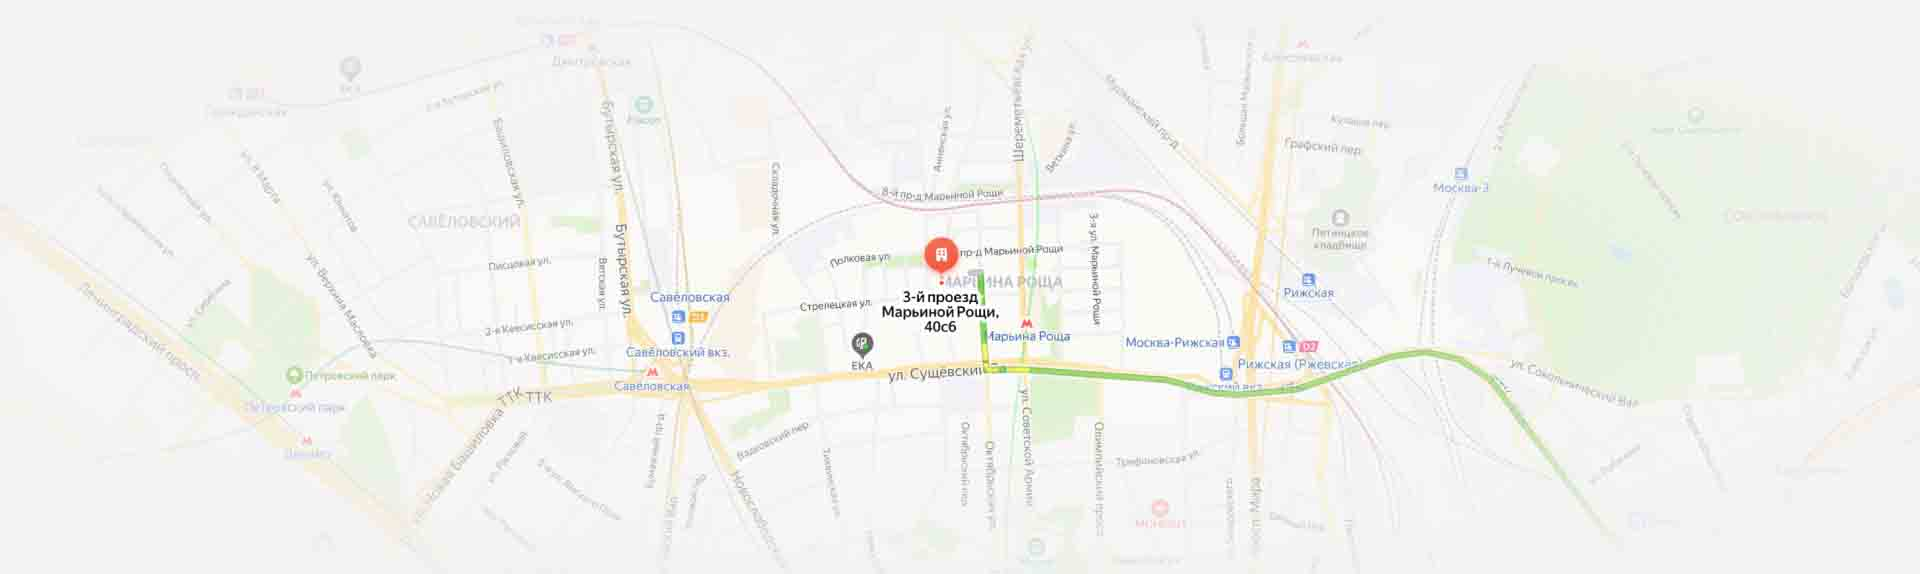
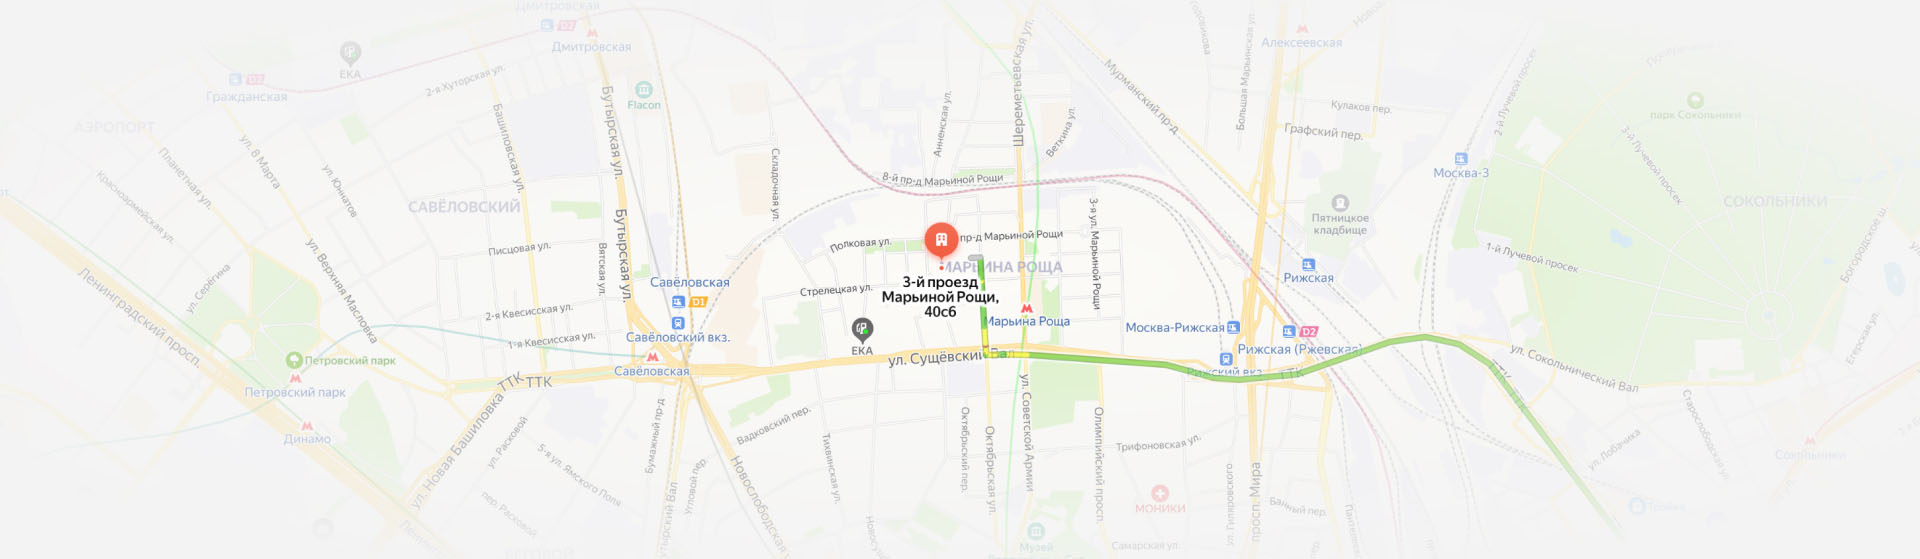
contacts page

diff --git a/app/contacts.html b/app/contacts.html
@@ -1,0 +1,375 @@
+<!DOCTYPE html>
+<html lang="ru">
+
+<head>
+	<meta charset="utf-8">
+	<title>Contacts = Contacts (дизайн #1) </title>
+	<meta name="description" content="Список страниц">
+	<meta name="viewport" content="width=device-width">
+	<link rel="icon" href="img/favicon.ico">
+	<meta property="og:image" content="img/dest/preview.jpg">
+	<link rel="stylesheet" href="css/app.min.css">
+
+	<link href="https://fonts.googleapis.com/css2?family=Roboto:ital,wght@0,100;0,300;0,400;0,500;0,700;0,900;1,100;1,300;1,400;1,500;1,700;1,900&display=swap" rel="stylesheet">
+	<link href="https://fonts.googleapis.com/css2?family=Montserrat:ital,wght@0,100;0,200;0,300;0,400;0,500;0,600;0,700;0,800;0,900;1,100;1,200;1,300;1,400;1,500;1,600;1,700;1,800;1,900&display=swap" rel="stylesheet">
+
+</head>
+
+<body class="accent--red">
+
+	<header class="header">
+		<div class="header__container container">
+
+			<div class="header__hamburger">
+				<button class=" hamburger" type="button">
+					<span></span>
+					<span></span>
+					<span></span>
+				</button>
+			</div>
+
+			<a href="/" class="header__logo">Logotype</a>
+
+			<nav class="header__nav nav">
+				<ul>
+					<li><a href="#">Преимущества</a></li>
+					<li><a href="#">Каталог</a></li>
+					<li><a href="#">О компании</a></li>
+					<li><a href="#">Контакты</a></li>
+				</ul>
+			</nav>
+
+			<div class="header__info">
+				<p>
+					<a href="tel:+78001234567" class="">+7 800 123-45-67</a>
+					<span>Пн. - Пт. с 9:00 до 21 :00</span>
+				</p>
+				<a href="#" class="header__info_btn">
+					<svg width="16" height="16" viewBox="0 0 16 16" xmlns="http://www.w3.org/2000/svg">
+						<path d="M15.1111 11.1111C14.0045 11.1111 12.9333 10.9333 11.9378 10.6045C11.6311 10.5067 11.28 10.5778 11.0356 10.8223L9.08004 12.7822C6.56004 11.5022 4.50225 9.44446 3.22225 6.92892L5.17779 4.96446C5.42225 4.72 5.49333 4.36892 5.39558 4.06225C5.06671 3.06671 4.88892 1.99558 4.88892 0.888917C4.88888 0.395542 4.49333 0 4 0H0.888875C0.4 0 0 0.395542 0 0.888875C0 9.23554 6.76446 16 15.1111 16C15.6045 16 16 15.6045 16 15.1111V12C16 11.5067 15.6045 11.1111 15.1111 11.1111Z" fill="white"/>
+						</svg>
+				</a>
+			</div>
+
+		</div>
+	</header>
+
+	<div class="hero bg--dark">
+		<div class="hero__slider swiper-container">
+			<div class="swiper-wrapper">
+
+				<div class="hero__slide hero__slide--center swiper-slide" style="background-image:url(img/hero.jpg)">
+					<div class="hero__container container">
+						<div class="hero__content">
+							<p class="hero__title">Новая коллекцию</p>
+							<p class="hero__text">
+								Повседневная практика показывает, что постоянный количественный рост и сфера 
+								нашей активности позволяет оценить значение модели развития. С другой стороны 
+								постоянное информационно-пропагандистское обеспечение нашей деятельности играет 
+								важную роль в формировании новых предложений.
+							</p>
+							<a href="#" class="btn">Заказать звонок</a>
+						</div>
+					</div>
+				</div>
+
+				<div class="hero__slide swiper-slide" style="background-image:url(img/hero2.jpg)">
+					<div class="hero__container container">
+						<div class="hero__content">
+							<p class="hero__title">Новая коллекцию</p>
+							<p class="hero__text">
+								Повседневная практика показывает, что постоянный количественный рост и сфера 
+								нашей активности позволяет оценить значение модели развития. С другой стороны 
+								постоянное информационно-пропагандистское обеспечение нашей деятельности играет 
+								важную роль в формировании новых предложений.
+							</p>
+							<a href="#" class="btn">Заказать звонок</a>
+						</div>
+					</div>
+				</div>
+
+				<div class="hero__slide swiper-slide" style="background-image:url(img/hero3.jpg)">
+					<div class="hero__container container">
+						<div class="hero__content">
+							<p class="hero__title">Новая коллекцию</p>
+							<p class="hero__text">
+								Повседневная практика показывает, что постоянный количественный рост и сфера 
+								нашей активности позволяет оценить значение модели развития. С другой стороны 
+								постоянное информационно-пропагандистское обеспечение нашей деятельности играет 
+								важную роль в формировании новых предложений.
+							</p>
+							<a href="#" class="btn">Заказать звонок</a>
+						</div>
+					</div>
+				</div>
+
+				<div class="hero__slide swiper-slide" style="background-image:url(img/hero4.jpg)">
+					<div class="hero__container container">
+						<div class="hero__content">
+							<p class="hero__title">Новая коллекцию</p>
+							<p class="hero__text">
+								Повседневная практика показывает, что постоянный количественный рост и сфера 
+								нашей активности позволяет оценить значение модели развития. С другой стороны 
+								постоянное информационно-пропагандистское обеспечение нашей деятельности играет 
+								важную роль в формировании новых предложений.
+							</p>
+							<a href="#" class="btn">Заказать звонок</a>
+						</div>
+					</div>
+				</div>
+
+			</div>
+
+			<div class="hero__pagination swiper-pagination"></div>
+			<div class="hero__button">
+				<div class="hero__button_prev"></div>
+				<div class="hero__button_next"></div>
+			</div>
+			<div class="hero__scrollbar swiper-scrollbar"></div>
+
+		</div>
+	</div>
+
+	<br>
+	<br>
+	<br>
+	<br>
+	<br>
+	<br>
+	<br>
+	<br>
+	<br>
+	<br>
+
+	<div class="contacts bg--dark">
+		<div class="container">
+
+			<h2 class="contacts__title">Контакты</h2>
+
+			<div class="contacts__list">
+				<div class="contacts__item">
+					<span>Телефоны</span>
+					<div>
+						<img src="img/contacts__tel.svg" alt="">
+						<p>
+							<a href="tel:+78001234567">+7 800 123-45-67</a>
+							<a href="tel:+74951556677">+7 495 155-66-77</a>
+						</p>
+					</div>
+				</div>
+				<div class="contacts__item">
+					<span>Почта</span>
+					<div>
+						<img src="img/contacts__mail.svg" alt="">
+						<p>
+							<a href="mailto:info@company.ru">info@company.ru</a>
+						</p>
+					</div>
+				</div>
+				<div class="contacts__item">
+					<span>Время работы</span>
+					<div>
+						<img src="img/contacts__time.svg" alt="">
+						<p>Пн. - Пт. : <br>с 9:00 по 18:00</p>
+					</div>
+				</div>
+				<div class="contacts__item">
+					<span>Адрес компании</span>
+					<div>
+						<img src="img/contacts__place.svg" alt="">
+						<p>г. Москва, <br> ул. Покровская, 15</p>
+					</div>
+				</div>
+			</div>
+
+		</div>
+
+		<div class="contacts__map"><img src="img/map--dark.jpg" alt="" class=""></div>
+	</div>
+
+	<br>
+	<br>
+	<br>
+	<br>
+	<br>
+	<br>
+	<br>
+	<br>
+	<br>
+	<br>
+
+	<div class="contacts bg--light">
+		<div class="container">
+
+			<h2 class="contacts__title">Контакты</h2>
+
+			<div class="contacts__list">
+				<div class="contacts__item">
+					<span>Телефоны</span>
+					<div>
+						<img src="img/contacts__tel.svg" alt="">
+						<p>
+							<a href="tel:+78001234567">+7 800 123-45-67</a>
+							<a href="tel:+74951556677">+7 495 155-66-77</a>
+						</p>
+					</div>
+				</div>
+				<div class="contacts__item">
+					<span>Почта</span>
+					<div>
+						<img src="img/contacts__mail.svg" alt="">
+						<p>
+							<a href="mailto:info@company.ru">info@company.ru</a>
+						</p>
+					</div>
+				</div>
+				<div class="contacts__item">
+					<span>Время работы</span>
+					<div>
+						<img src="img/contacts__time.svg" alt="">
+						<p>Пн. - Пт. : <br>с 9:00 по 18:00</p>
+					</div>
+				</div>
+				<div class="contacts__item">
+					<span>Адрес компании</span>
+					<div>
+						<img src="img/contacts__place.svg" alt="">
+						<p>г. Москва, <br> ул. Покровская, 15</p>
+					</div>
+				</div>
+			</div>
+
+		</div>
+
+		<div class="contacts__map"><img src="img/map.jpg" alt="" class=""></div>
+	</div>
+
+	<br>
+	<br>
+	<br>
+	<br>
+	<br>
+	<br>
+	<br>
+	<br>
+	<br>
+	<br>
+
+	<footer class="footer">
+		<div class="footer__info container">
+
+			<a href="#" class="footer__logo">Logotype</a>
+			<div class="footer__soc">
+				<a href="#" target="_blank">
+					<svg width="24" height="24" viewBox="0 0 24 24" xmlns="http://www.w3.org/2000/svg">
+						<path d="M15.07 2H8.93C3.33 2 2 3.33 2 8.93V15.07C2 20.67 3.33 22 8.93 22H15.07C20.67 22 22 20.67 22 15.07V8.93C22 3.33 20.67 2 15.07 2ZM18.15 16.27H16.69C16.14 16.27 15.97 15.82 15 14.83C14.12 14 13.74 13.88 13.53 13.88C13.24 13.88 13.15 13.96 13.15 14.38V15.69C13.15 16.04 13.04 16.26 12.11 16.26C10.57 16.26 8.86 15.32 7.66 13.59C5.85 11.05 5.36 9.13 5.36 8.75C5.36 8.54 5.43 8.34 5.85 8.34H7.32C7.69 8.34 7.83 8.5 7.97 8.9C8.69 11 9.89 12.8 10.38 12.8C10.57 12.8 10.65 12.71 10.65 12.25V10.1C10.6 9.12 10.07 9.03 10.07 8.68C10.07 8.5 10.21 8.34 10.44 8.34H12.73C13.04 8.34 13.15 8.5 13.15 8.88V11.77C13.15 12.08 13.28 12.19 13.38 12.19C13.56 12.19 13.72 12.08 14.05 11.74C15.1 10.57 15.85 8.76 15.85 8.76C15.95 8.55 16.11 8.35 16.5 8.35H17.93C18.37 8.35 18.47 8.58 18.37 8.89C18.19 9.74 16.41 12.25 16.43 12.25C16.27 12.5 16.21 12.61 16.43 12.9C16.58 13.11 17.09 13.55 17.43 13.94C18.05 14.65 18.53 15.24 18.66 15.65C18.77 16.06 18.57 16.27 18.15 16.27Z"/>
+					</svg>
+				</a>
+				<a href="#" target="_blank">
+					<svg width="24" height="24" viewBox="0 0 24 24" xmlns="http://www.w3.org/2000/svg">
+						<path d="M12 2.04004C6.5 2.04004 2 6.53004 2 12.06C2 17.06 5.66 21.21 10.44 21.96V14.96H7.9V12.06H10.44V9.85004C10.44 7.34004 11.93 5.96004 14.22 5.96004C15.31 5.96004 16.45 6.15004 16.45 6.15004V8.62004H15.19C13.95 8.62004 13.56 9.39004 13.56 10.18V12.06H16.34L15.89 14.96H13.56V21.96C15.9164 21.5879 18.0622 20.3856 19.6099 18.5701C21.1576 16.7546 22.0054 14.4457 22 12.06C22 6.53004 17.5 2.04004 12 2.04004Z" fill="#9D9D9D"/>
+					</svg>
+				</a>
+				<a href="#" target="_blank">
+					<svg width="24" height="24" viewBox="0 0 24 24" xmlns="http://www.w3.org/2000/svg">
+						<path d="M10 15L15.19 12L10 9V15ZM21.56 7.17C21.69 7.64 21.78 8.27 21.84 9.07C21.91 9.87 21.94 10.56 21.94 11.16L22 12C22 14.19 21.84 15.8 21.56 16.83C21.31 17.73 20.73 18.31 19.83 18.56C19.36 18.69 18.5 18.78 17.18 18.84C15.88 18.91 14.69 18.94 13.59 18.94L12 19C7.81 19 5.2 18.84 4.17 18.56C3.27 18.31 2.69 17.73 2.44 16.83C2.31 16.36 2.22 15.73 2.16 14.93C2.09 14.13 2.06 13.44 2.06 12.84L2 12C2 9.81 2.16 8.2 2.44 7.17C2.69 6.27 3.27 5.69 4.17 5.44C4.64 5.31 5.5 5.22 6.82 5.16C8.12 5.09 9.31 5.06 10.41 5.06L12 5C16.19 5 18.8 5.16 19.83 5.44C20.73 5.69 21.31 6.27 21.56 7.17Z" fill="#9D9D9D"/>
+					</svg>
+				</a>
+				<a href="#" target="_blank">
+					<svg width="24" height="24" viewBox="0 0 24 24" xmlns="http://www.w3.org/2000/svg">
+						<path d="M17.8301 12.74C17.5501 12.17 16.7601 11.69 15.7101 12.5C14.2801 13.64 12.0001 13.64 12.0001 13.64C12.0001 13.64 9.72005 13.64 8.29005 12.5C7.24005 11.69 6.45005 12.17 6.17005 12.74C5.67005 13.74 6.23005 14.23 7.50005 15.04C8.59005 15.74 10.0801 16 11.0401 16.1L10.2401 16.9C9.10005 18.03 8.00005 19.12 7.25005 19.88C6.80005 20.34 6.80005 21.07 7.25005 21.5L7.39005 21.66C7.84005 22.11 8.58005 22.11 9.03005 21.66L12.0001 18.68C13.1501 19.81 14.2401 20.9 15.0001 21.66C15.4501 22.11 16.18 22.11 16.64 21.66L16.7701 21.5C17.2301 21.07 17.2301 20.34 16.7701 19.88L13.7901 16.9L13.0001 16.09C13.9501 16 15.4201 15.73 16.5001 15.04C17.7701 14.23 18.3301 13.74 17.8301 12.74ZM12.0001 4.57C13.3801 4.57 14.5001 5.69 14.5001 7.06C14.5001 8.44 13.3801 9.55 12.0001 9.55C10.6201 9.55 9.50005 8.44 9.50005 7.06C9.50005 5.69 10.6201 4.57 12.0001 4.57ZM12.0001 12.12C14.8001 12.12 17.0601 9.86 17.0601 7.06C17.0601 4.27 14.8001 2 12.0001 2C9.20005 2 6.94005 4.27 6.94005 7.06C6.94005 9.86 9.20005 12.12 12.0001 12.12Z" fill="#9D9D9D"/>
+					</svg>
+				</a>
+				<a href="#" target="_blank">
+					<svg width="24" height="24" viewBox="0 0 24 24" xmlns="http://www.w3.org/2000/svg">
+						<path d="M22.46 6C21.69 6.35 20.86 6.58 20 6.69C20.88 6.16 21.56 5.32 21.88 4.31C21.05 4.81 20.13 5.16 19.16 5.36C18.37 4.5 17.26 4 16 4C13.65 4 11.73 5.92 11.73 8.29C11.73 8.63 11.77 8.96 11.84 9.27C8.28004 9.09 5.11004 7.38 3.00004 4.79C2.63004 5.42 2.42004 6.16 2.42004 6.94C2.42004 8.43 3.17004 9.75 4.33004 10.5C3.62004 10.5 2.96004 10.3 2.38004 10C2.38004 10 2.38004 10 2.38004 10.03C2.38004 12.11 3.86004 13.85 5.82004 14.24C5.46004 14.34 5.08004 14.39 4.69004 14.39C4.42004 14.39 4.15004 14.36 3.89004 14.31C4.43004 16 6.00004 17.26 7.89004 17.29C6.43004 18.45 4.58004 19.13 2.56004 19.13C2.22004 19.13 1.88004 19.11 1.54004 19.07C3.44004 20.29 5.70004 21 8.12004 21C16 21 20.33 14.46 20.33 8.79C20.33 8.6 20.33 8.42 20.32 8.23C21.16 7.63 21.88 6.87 22.46 6Z" fill="#9D9D9D"/>
+					</svg>
+				</a>
+				<a href="#" target="_blank">
+					<svg width="24" height="24" viewBox="0 0 24 24" xmlns="http://www.w3.org/2000/svg">
+						<path d="M7.8 2H16.2C19.4 2 22 4.6 22 7.8V16.2C22 17.7383 21.3889 19.2135 20.3012 20.3012C19.2135 21.3889 17.7383 22 16.2 22H7.8C4.6 22 2 19.4 2 16.2V7.8C2 6.26174 2.61107 4.78649 3.69878 3.69878C4.78649 2.61107 6.26174 2 7.8 2ZM7.6 4C6.64522 4 5.72955 4.37928 5.05442 5.05442C4.37928 5.72955 4 6.64522 4 7.6V16.4C4 18.39 5.61 20 7.6 20H16.4C17.3548 20 18.2705 19.6207 18.9456 18.9456C19.6207 18.2705 20 17.3548 20 16.4V7.6C20 5.61 18.39 4 16.4 4H7.6ZM17.25 5.5C17.5815 5.5 17.8995 5.6317 18.1339 5.86612C18.3683 6.10054 18.5 6.41848 18.5 6.75C18.5 7.08152 18.3683 7.39946 18.1339 7.63388C17.8995 7.8683 17.5815 8 17.25 8C16.9185 8 16.6005 7.8683 16.3661 7.63388C16.1317 7.39946 16 7.08152 16 6.75C16 6.41848 16.1317 6.10054 16.3661 5.86612C16.6005 5.6317 16.9185 5.5 17.25 5.5ZM12 7C13.3261 7 14.5979 7.52678 15.5355 8.46447C16.4732 9.40215 17 10.6739 17 12C17 13.3261 16.4732 14.5979 15.5355 15.5355C14.5979 16.4732 13.3261 17 12 17C10.6739 17 9.40215 16.4732 8.46447 15.5355C7.52678 14.5979 7 13.3261 7 12C7 10.6739 7.52678 9.40215 8.46447 8.46447C9.40215 7.52678 10.6739 7 12 7ZM12 9C11.2044 9 10.4413 9.31607 9.87868 9.87868C9.31607 10.4413 9 11.2044 9 12C9 12.7956 9.31607 13.5587 9.87868 14.1213C10.4413 14.6839 11.2044 15 12 15C12.7956 15 13.5587 14.6839 14.1213 14.1213C14.6839 13.5587 15 12.7956 15 12C15 11.2044 14.6839 10.4413 14.1213 9.87868C13.5587 9.31607 12.7956 9 12 9Z" fill="#9D9D9D"/>
+					</svg>
+				</a>
+			</div>
+			<div class="footer__info_info">
+				<p>
+					<a href="tel:+78001234567" class="">+7 800 123-45-67</a>
+					<span>Пн. - Пт. с 9:00 до 21 :00</span>
+				</p>
+				<a href="#" class="header__info_btn">
+					<svg width="16" height="16" viewBox="0 0 16 16" xmlns="http://www.w3.org/2000/svg">
+						<path d="M15.1111 11.1111C14.0045 11.1111 12.9333 10.9333 11.9378 10.6045C11.6311 10.5067 11.28 10.5778 11.0356 10.8223L9.08004 12.7822C6.56004 11.5022 4.50225 9.44446 3.22225 6.92892L5.17779 4.96446C5.42225 4.72 5.49333 4.36892 5.39558 4.06225C5.06671 3.06671 4.88892 1.99558 4.88892 0.888917C4.88888 0.395542 4.49333 0 4 0H0.888875C0.4 0 0 0.395542 0 0.888875C0 9.23554 6.76446 16 15.1111 16C15.6045 16 16 15.6045 16 15.1111V12C16 11.5067 15.6045 11.1111 15.1111 11.1111Z" fill="white"/>
+						</svg>
+				</a>
+			</div>
+		</div>
+
+		<div class="footer__copy container">
+			<p>© 2001 - 2020. Все права защищены</p>
+			<p><a href="#" target="_blank">Политика обработки персональных данных</a></p>
+			<p>
+				<img src="img/footer1.png" alt="">
+				<img src="img/footer2.png" alt="">
+				<img src="img/footer3.png" alt="">
+				<img src="img/footer4.png" alt="">
+				<img src="img/footer5.png" alt="">
+			</p>
+		</div>
+	</footer>
+
+
+	<div class="modal" id="developments">
+		<button class="modal__close developments_close" type="button">
+			<span></span>
+			<span></span>
+		</button>
+
+		<div class="modal--developments">
+			<div class="modal--developments__img">
+				<img src="img/developments1.jpg" alt="">
+			</div>
+			<div class="modal--developments__text">
+				<h2>Lorem ipsum dolor sit amet.</h2>
+				<p>
+					Lorem ipsum, dolor sit amet consectetur adipisicing elit. In soluta pariatur doloremque 
+					officiis reiciendis possimus quidem velit at. Recusandae suscipit eius fuga quo repudiandae 
+					eos ducimus minus deserunt sunt nam optio qui sequi officiis, maiores provident. Incidunt ea ipsum aut?
+				</p>
+				<p>
+					Lorem ipsum dolor sit, amet consectetur adipisicing elit. Dolorem veniam veritatis, 
+					eligendi iusto, dolore laudantium natus perspiciatis id sed nesciunt odit velit. Possimus 
+					ipsa dignissimos doloremque illum libero? Dicta atque perspiciatis dignissimos ex quod recusandae 
+					tenetur dolores blanditiis necessitatibus. Itaque ullam ut labore quia facilis beatae numquam 
+					obcaecati ea aut quos praesentium maxime fuga voluptatibus, sapiente possimus inventore vitae harum? 
+					Repellendus quia magnam consectetur ullam dolore, quo molestias laudantium animi amet excepturi 
+					repellat deleniti temporibus commodi est, sit modi doloribus quos alias delectus eligendi 
+					veniam, enim adipisci? Aliquid, fugiat beatae rerum dignissimos dolor quos, quidem earum 
+					obcaecati dolore doloribus adipisci.
+				</p>
+			</div>
+		</div>
+
+	</div>
+
+	<script src="js/app.min.js"></script>
+	
+	<script type="text/javascript">
+		$("#getting-started")
+		.countdown("2020/08/01", function(event) {
+			$("#getting-started .dn").text(
+				event.strftime('%D'),
+			);
+			$("#getting-started .ch").text(
+				event.strftime('%H'),
+			);
+			$("#getting-started .mi").text(
+				event.strftime('%M'),
+			);
+			$("#getting-started .sc").text(
+				event.strftime('%S'),
+			);
+		});
+	</script>
+
+</body>
+</html>

diff --git a/app/scss/_base/_vars.scss b/app/scss/_base/_vars.scss
@@ -176,6 +176,10 @@ button {
 	background-color: $bg--dark;
 	color: #ffffff;
 
+	a {
+		color: #ffffff;
+	}
+
 	.policy {
 		a {
 			color: $white;
